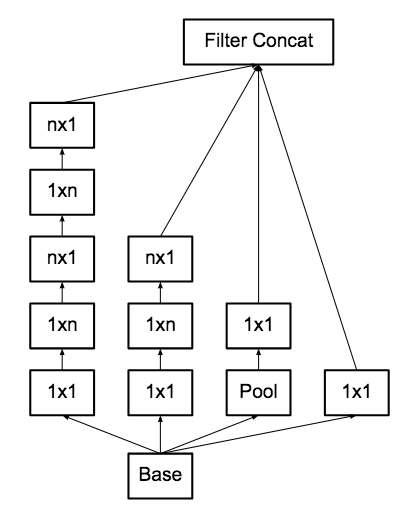
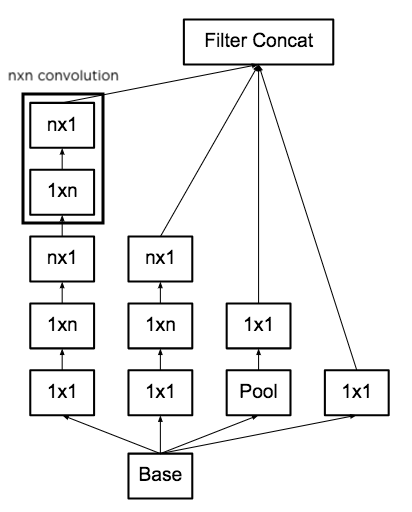
refactor: second re-reading

Changed region(s): [[0.0, 0.125, 0.2913, 0.4375]]

diff --git a/content/article2/main.md b/content/article2/main.md
@@ -2,10 +2,13 @@
 
 **Un petit mot sur pourquoi on change de challenge entre 2012, 2014 et 2015. Quelles différences ? rajouter un petit tableau récapitulatif, avec les perfs, les caractéristiques principales, ou alors une timeline des modèles ?**
 
+
+
 ## Why do we need image classification?
 In the previous post, we praised the advantages of embedded deep learning algorithms into mobile phones. While the applications are numerous, we will focus on computer vision algorithms, the heart of Comet. One of the most popular task of such algorithms is image classification, ie telling which object appears on a picture. Indeed mobile phones host a diverse and rich photo gallery which then become a personal database difficult to manage especially to recover specific events. Users should be able to have a souvenir in their mind and find the associated images in the most efficient way. A first intuitive approach would be to type in a word corresponding to the content of the image. Searching images with words is, from a machine learning point of view, a classification problem with a high number of classes. 
 
 The purpose of this post is to provide a review of the state-of-the-art of image classification algorithms based on the most popular labelled dataset, ImageNet. We will describe some of the innovative architectures which lead to significant improvements.
+Note that reseachers test their algorithms using different datasets (a new ImageNet dataset is released as a new challenge with different images each year). Thus the cited accuracies cannot be directly compared *per se*.
 
 
 ## The ImageNet challenge
@@ -19,7 +22,7 @@ type of food. Although the original challenge is still on-going, it has further 
 ![02_EnglishFoxhound](02_EnglishFoxhound.JPEG)*Example of image in ImageNet2012 dataset: English Foxhound. Source: [ImageNet](www.image-net.org/)*
 
 ## The advent of deep learning
-**The ImageNet challenge has been traditionnally tackled with image analysis algorithms such as SIFT with mitigated results[NOT SURE]** until the late 90s. However, a gap in performance has been brought by using neural networks. Inspired by [Y. Lecun and al (1998)](http://yann.lecun.com/exdb/publis/pdf/lecun-01a.pdf), the first deep learning model published by [A. Krizhevsky and al (2012)](https://papers.nips.cc/paper/4824-imagenet-classification-with-deep-convolutional-neural-networks) drew attention to the public by getting a top-5 error rate of 15.3% outperforming the previous best one with 26.2%. This famous model, the so-called "AlexNet" is what can be considered today as a simple architecture with five consecutive convolutional filters, max-pool layers and three fully-connected layers.
+The ImageNet challenge has been traditionnally tackled with image analysis algorithms such as SIFT with mitigated results until the late 90s. However, a gap in performance has been brought by using neural networks. Inspired by [Y. Lecun and al (1998)](http://yann.lecun.com/exdb/publis/pdf/lecun-01a.pdf), the first deep learning model published by [A. Krizhevsky and al (2012)](https://papers.nips.cc/paper/4824-imagenet-classification-with-deep-convolutional-neural-networks) drew attention to the public by getting a top-5 error rate of 15.3% outperforming the previous best one with an accuracy of 26.2% using a SIFT model. This famous model, the so-called "AlexNet" is what can be considered today as a simple architecture with five consecutive convolutional filters, max-pool layers and three fully-connected layers.
 
 ![1_LeNet_5_architecture_digit_reco](11_LeNet_5_architecture_digit_reco.png)*LeNet-5 architecture for digit recognition. Source: [Y. Lecun and al (1998)](http://yann.lecun.com/exdb/publis/pdf/lecun-01a.pdf)*
 
@@ -27,13 +30,11 @@ type of food. Although the original challenge is still on-going, it has further 
 
 
 ## Going deeper  
-Since the 2012 milestone, researchers have tried to go deeper in the sequences of convolutional layers. In 2014, [K. Simonyan & A. Zisserman (2015)](https://arxiv.org/abs/1409.1556.pdf) released the VGG16 model, composed of sixteen convolutional layers, multiple max-pool layers and tree final fully-connected layers. One of its specificities is to chain multiple convolutional layers with ReLu activation functions creating non-linear transformations. Indeed, introducing non-linearities allow models to learn more complex patterns. Moreover they introduced 3x3 filters for each convolution (as opposed to 11x11 filters for the AlexNet model) and noticed they could recognised the same patterns than larger filters while decreasing the number of parameters to train. These transformations reached 7.3% top-5 score on the 2014 ImageNet challenge reducing by a factor of two the error rate of the AlexNet model.
+Since the 2012 milestone, researchers have tried to go deeper in the sequences of convolutional layers. In 2014, [K. Simonyan & A. Zisserman (2015)](https://arxiv.org/abs/1409.1556.pdf) released the VGG16 model, composed of sixteen convolutional layers, multiple max-pool layers and tree final fully-connected layers. One of its specificities is to chain multiple convolutional layers with ReLU activation functions creating non-linear transformations. Indeed, introducing non-linearities allow models to learn more complex patterns. Moreover they introduced 3x3 filters for each convolution (as opposed to 11x11 filters for the AlexNet model) and noticed they could recognised the same patterns than larger filters while decreasing the number of parameters to train. These transformations reached 7.3% top-5 score on the 2014 ImageNet challenge reducing by a factor of two the error rate of the AlexNet model.
 
 ## Inception modules
-This same year, [M. Lin and al (2014)](https://arxiv.org/abs/1312.4400.pdf) have developed the concept of "inception modules". Original convolutional layer uses linear transformations with a non-linear activation function. However, training multiple convolutional layers simultaneously and stack their feature maps linked with a multi-layer perceptron also produces a non-linear transformations. This idea has been exploited by [C. Szegedy and al (2014)](https://arxiv.org/abs/1409.4842) who proposed a deeper network called GoogLeNet (aka Inception V1) with 22 layers using such "inception modules" for a total of over 50 convolution layers. Each module is composed of 1x1, 3x3, 5x5 convolution layers and a 3x3 max-pool layer to increase sparsity in the model and obtain different type of patterns. The produced feature maps are then concatenated and analyzed by the next inception module. The GoogLeNet model has a 6.7% error rate over the 2014 ImageNet challenge which is somewhat lower than the VGG16 but astonishingly smaller than its VGG16 counterpart (55MB vs 490MB). This gap is mainly due to the presence of the three large fully-connected layers in the VGG architecture.
+This same year, [M. Lin and al (2014)](https://arxiv.org/abs/1312.4400.pdf) have developed the concept of "inception modules". Original convolutional layer uses linear transformations with a non-linear activation function. However, training multiple convolutional layers simultaneously and stack their feature maps linked with a multi-layer perceptron also produces a non-linear transformation. This idea has been exploited by [C. Szegedy and al (2014)](https://arxiv.org/abs/1409.4842) who proposed a deeper network called GoogLeNet (aka Inception V1) with 22 layers using such "inception modules" for a total of over 50 convolution layers. Each module is composed of 1x1, 3x3, 5x5 convolution layers and a 3x3 max-pool layer to increase sparsity in the model and obtain different type of patterns. The produced feature maps are then concatenated and analyzed by the next inception module. The GoogLeNet model has a 6.7% error rate over the 2014 ImageNet challenge which is somewhat lower than the VGG16 but astonishingly smaller than its VGG16 counterpart (55MB vs 490MB). This gap is mainly due to the presence of the three large fully-connected layers in the VGG architecture.
 
-
-**[PAS COMPRIS] A more complex module using 1x1 convolution before the 3x3 and 5x5 ones, it realizes linear projections (seen as linear rectifications) and dimension reductions while parameters learnt focus the patterns over the feature maps.**
 
 ![31_Inception_module](31_Inception_module.png)*Inception module. Source: [C. Szegedy and al (2014)](https://arxiv.org/abs/1409.4842)*
 
@@ -43,8 +44,7 @@ In 2015, [C. Szegedy and al (2015)](https://arxiv.org/abs/1512.00567) developed 
 
 Going further, [C. Szegedy and al (2015)](https://arxiv.org/abs/1512.00567) have fine-tuned the batch-normalization and used a higher resolution input, the famous Inception V3 model. They reduced the strides of the first two layers and removed a max-pool layer to analyze images with higher precision. They finally reached a top-5 error rate of 3.58% over the 2012 ImageNet challenge.
 
-![33_Inception_module_factorization_after_nxn_conv](33_Inception_module_factorization_after_nxn_conv.png)*Inception module factorization application replacing 5x5 convolution
-by two 3x3 convolutions. Source: [C. Szegedy and al (2015)](https://arxiv.org/abs/1512.00567)*
+![33_Inception_module_factorization_after_nxn_conv](33_Inception_module_factorization_after_nxn_conv.png)*Inception module factorization after a nxn convolution. Source: [C. Szegedy and al (2015)](https://arxiv.org/abs/1512.00567)*
 
 ![34_Inception_module_application_factorization_replace_5x5_by_two_3x3](34_Inception_module_application_factorization_replace_5x5_by_two_3x3.png)*Inception module factorization application replacing 5x5 convolution
 by two 3x3 convolutions. Source: [C. Szegedy and al (2015)](https://arxiv.org/abs/1512.00567)*
@@ -55,31 +55,46 @@ The main common trend in convolutional neural network models is their increasing
 between the output of one or multiple convolutional layers and their
 original input with an identity mapping. In other words, the model is
 trying to learn a residual function which keeps most of the information
-and produces only slight changes. Consequently, patterns from the input image can be learnt in deeper layers is it's not too much transformed yet. Moreover, this method doesn’t add any additional parameter and doesn’t increase the computational complexity of the model. This model, dubbed "ResNet", is composed of 152 convolutional layers with 3x3 filters using residual learning by
+and produces only slight changes. Consequently, patterns from the input image can be learnt in deeper layers if it's not too much transformed yet. Moreover, this method doesn’t add any additional parameter and doesn’t increase the computational complexity of the model. This model, dubbed "ResNet", is composed of 152 convolutional layers with 3x3 filters using residual learning by
 block of two layers. Although it got a top-5 error rate of 4.49% over
 the 2012 ImageNet challenge (less than the Inception V3), the ResNet
-model has won the 2015 challenge with a top-5 error rate of 3.57%. **[HOW IS THIS POSSIBLE??]**
+model has won the 2015 challenge with a top-5 error rate of 3.57%.
 
 ![41_Residual_learning_block](41_Residual_learning_block.png)*Residual learning block architecture. Source: [K. He and al (2015)](http://arxiv.org/abs/1512.03385)*
 
 ![42_VGG19_vs_ResNet_34_layers](42_VGG19_vs_ResNet_34_layers.png)*ResNet architecture. Source: [K. He and al (2015)](http://arxiv.org/abs/1512.03385)*
 
 ### The Inception-ResNet
-One year after the success of the ResNet model, [C. Szegedy and al (2016)](http://arxiv.org/abs/1602.07261) combined inception modules (to increase sparsity) and residual blocks (to learn deeper layers), building residual inception blocks. The inception modules have been improved to fine-tune the layer sizes and to detect more specific patterns. This model also omits batch-normalization on the top of the network with traditional layers to increase the number of inception blocks**[I DONT UNDERSTAND HERE]**. The resulting Inception V4 (Inception-ResNet)[^2] model can be trained faster and outperforms all other models over the 2012 ImageNet challenge with a top-5 error rate of 3.08%.
+One year after the success of the ResNet model, [C. Szegedy and al (2016)](http://arxiv.org/abs/1602.07261) combined inception modules (to increase sparsity) and residual blocks (to learn deeper layers), building residual inception blocks. The inception modules have been improved to fine-tune the layer sizes and to detect more specific patterns. This model doesn't use batch-normalization before the first traditional layers of the network to increase even more the number of inception blocks. The resulting Inception V4 (Inception-ResNet)[^2] model can be trained faster and outperforms all other models over the 2012 ImageNet challenge with a top-5 error rate of 3.08%.
 
-![51_Inception_ResNet_archi_using_complex_modules](51_Inception_ResNet_archi_using_complex_modules.png)*Inception-ResNet architecture using complex modules. Source: [C. Szegedy and al (2016)](http://arxiv.org/abs/1602.07261)*
+![51_Inception_ResNet_archi_using_complex_modules](51_Inception_ResNet_archi_using_complex_modules.png)*Inception-ResNet architecture using customized Inception-ResNet modules. Source: [C. Szegedy and al (2016)](http://arxiv.org/abs/1602.07261)*
 
 Every day, new blocks to improve performance and speed up training
 are proposed. For example, the "Squeeze-and-Excitation" module
 [(J. Hu, 2017)](https://arxiv.org/abs/1709.01507) uses an architecture combining multiple fully-connected layers, inception modules and residual blocks. One of its main advantages is the low number of parameters (thus reducing computational cost) while retaining a top-5 error rate of 2.25%, promoting him winner of the 2017 ImageNet challenge.
 
-![61_SE-ResNet_module](61_SE-ResNet_module.png)*SE-ResNet module. Source: [J. Hu (2017)](https://arxiv.org/abs/1709.01507)*
+![61_SE-ResNet_module](61_SE-ResNet_module.png)*Squeeze-Excitation-ResNet module. Source: [J. Hu (2017)](https://arxiv.org/abs/1709.01507)*
 
 ## Conclusion
 This post described the milestones reached in deep learning for the image classification problem, and more specifically around the ImageNet challenge. However, it is not an exhaustive list of all the existing models. New ones appear every day, as a reminder that image classification is a very active field of research in computer vision.
+
+Caption: Overview of the top-5 error rates on the 2012, 2014, 2015 and 2017 ImageNet challenges.
+
+|Model|ImageNet 2012|ImageNet 2014|ImageNet 2015|ImageNet 2017|
+|-----|-------------|-------------|-------------|-------------|
+|AlexNet|15.3%|x|x|x|
+|VGG16|x|7.3%|x|x|
+|GoogLeNet (Inception V1)|x|6.7%|x|x|
+|Inception V2|5.6%|x|x|x|
+|Inception V3|3.58%|x|x|x|
+|ResNet|4.49%|x|3.57%|x|
+|Inception-ResNet (Inception V4)|3.08%|x|x|x|
+|SE-ResNet|x|x|x|2.25%|
 
 Most of them however requires, with a size of hundred of megabytes, a significant computational cost due to the large number of operation involved, even in inference mode. This constitutes a real matter of concern for deep learning models embedded on mobile devices. Optimization of architectures and weights storage in inference also constitutes an active field of research, which will be addressed in an upcoming post.
 
 [^1]: Synonym sets
 
-[^2]: In [C. Szegedy and al (2016)](http://arxiv.org/abs/1602.07261) is developed a pure Inception V4 without residual block and an Inception-ResNet V2 model which uses inception modules and residual blocks. What we call Inception V4 here is the actual Inception-ResNet V2 providing the best performances.
+[^2]: [C. Szegedy and al (2016)](http://arxiv.org/abs/1602.07261) developed a pure (ie without residual block) Inception V4 and an Inception-ResNet V2 model which uses inception modules and residual blocks. The aforementioned Inception V4 is the Inception-ResNet V2 providing the best performances.
+
+Tags: review, CNN, difficult
